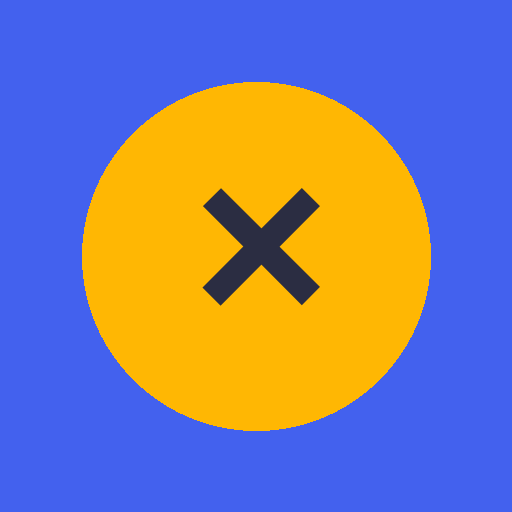
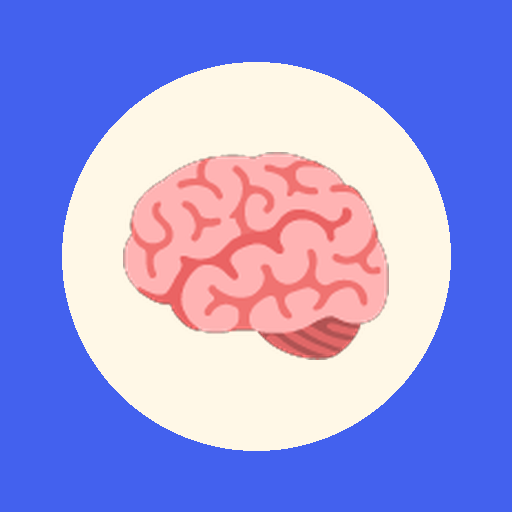
Renombrar a Multicerebro con ícono de cerebro
Claude-Session: https://claude.ai/code/session_01QyigXM8PL6v6GXd6VkXa2S

diff --git a/index.html b/index.html
@@ -3,14 +3,14 @@
 <head>
 <meta charset="UTF-8">
 <meta name="viewport" content="width=device-width, initial-scale=1">
-<title>Tablas de multiplicar</title>
+<title>Multicerebro</title>
 <link rel="manifest" href="manifest.json">
 <meta name="theme-color" content="#4361ee">
 <link rel="icon" href="icon-192.png">
 <link rel="apple-touch-icon" href="icon-192.png">
 <meta name="apple-mobile-web-app-capable" content="yes">
 <meta name="mobile-web-app-capable" content="yes">
-<meta name="apple-mobile-web-app-title" content="Tablas">
+<meta name="apple-mobile-web-app-title" content="Multicerebro">
 <style>
   :root {
     --bg: #fff8e7; --card: #ffffff; --ink: #2b2d42; --muted: #6c7089;
@@ -80,7 +80,7 @@
 </head>
 <body>
 <main>
-  <h1>✖ Tablas de multiplicar</h1>
+  <h1>🧠 Multicerebro</h1>
 
   <!-- Pantalla 1: elegir jugador -->
   <section id="screen-home" class="card">

diff --git a/sw.js b/sw.js
@@ -1,5 +1,5 @@
 // Service worker: guarda la app para que funcione sin internet.
-const CACHE = 'tablas-v2';
+const CACHE = 'tablas-v3';
 const FILES = ['./', './index.html', './manifest.json', './icon-192.png', './icon-512.png'];
 
 self.addEventListener('install', e => {
